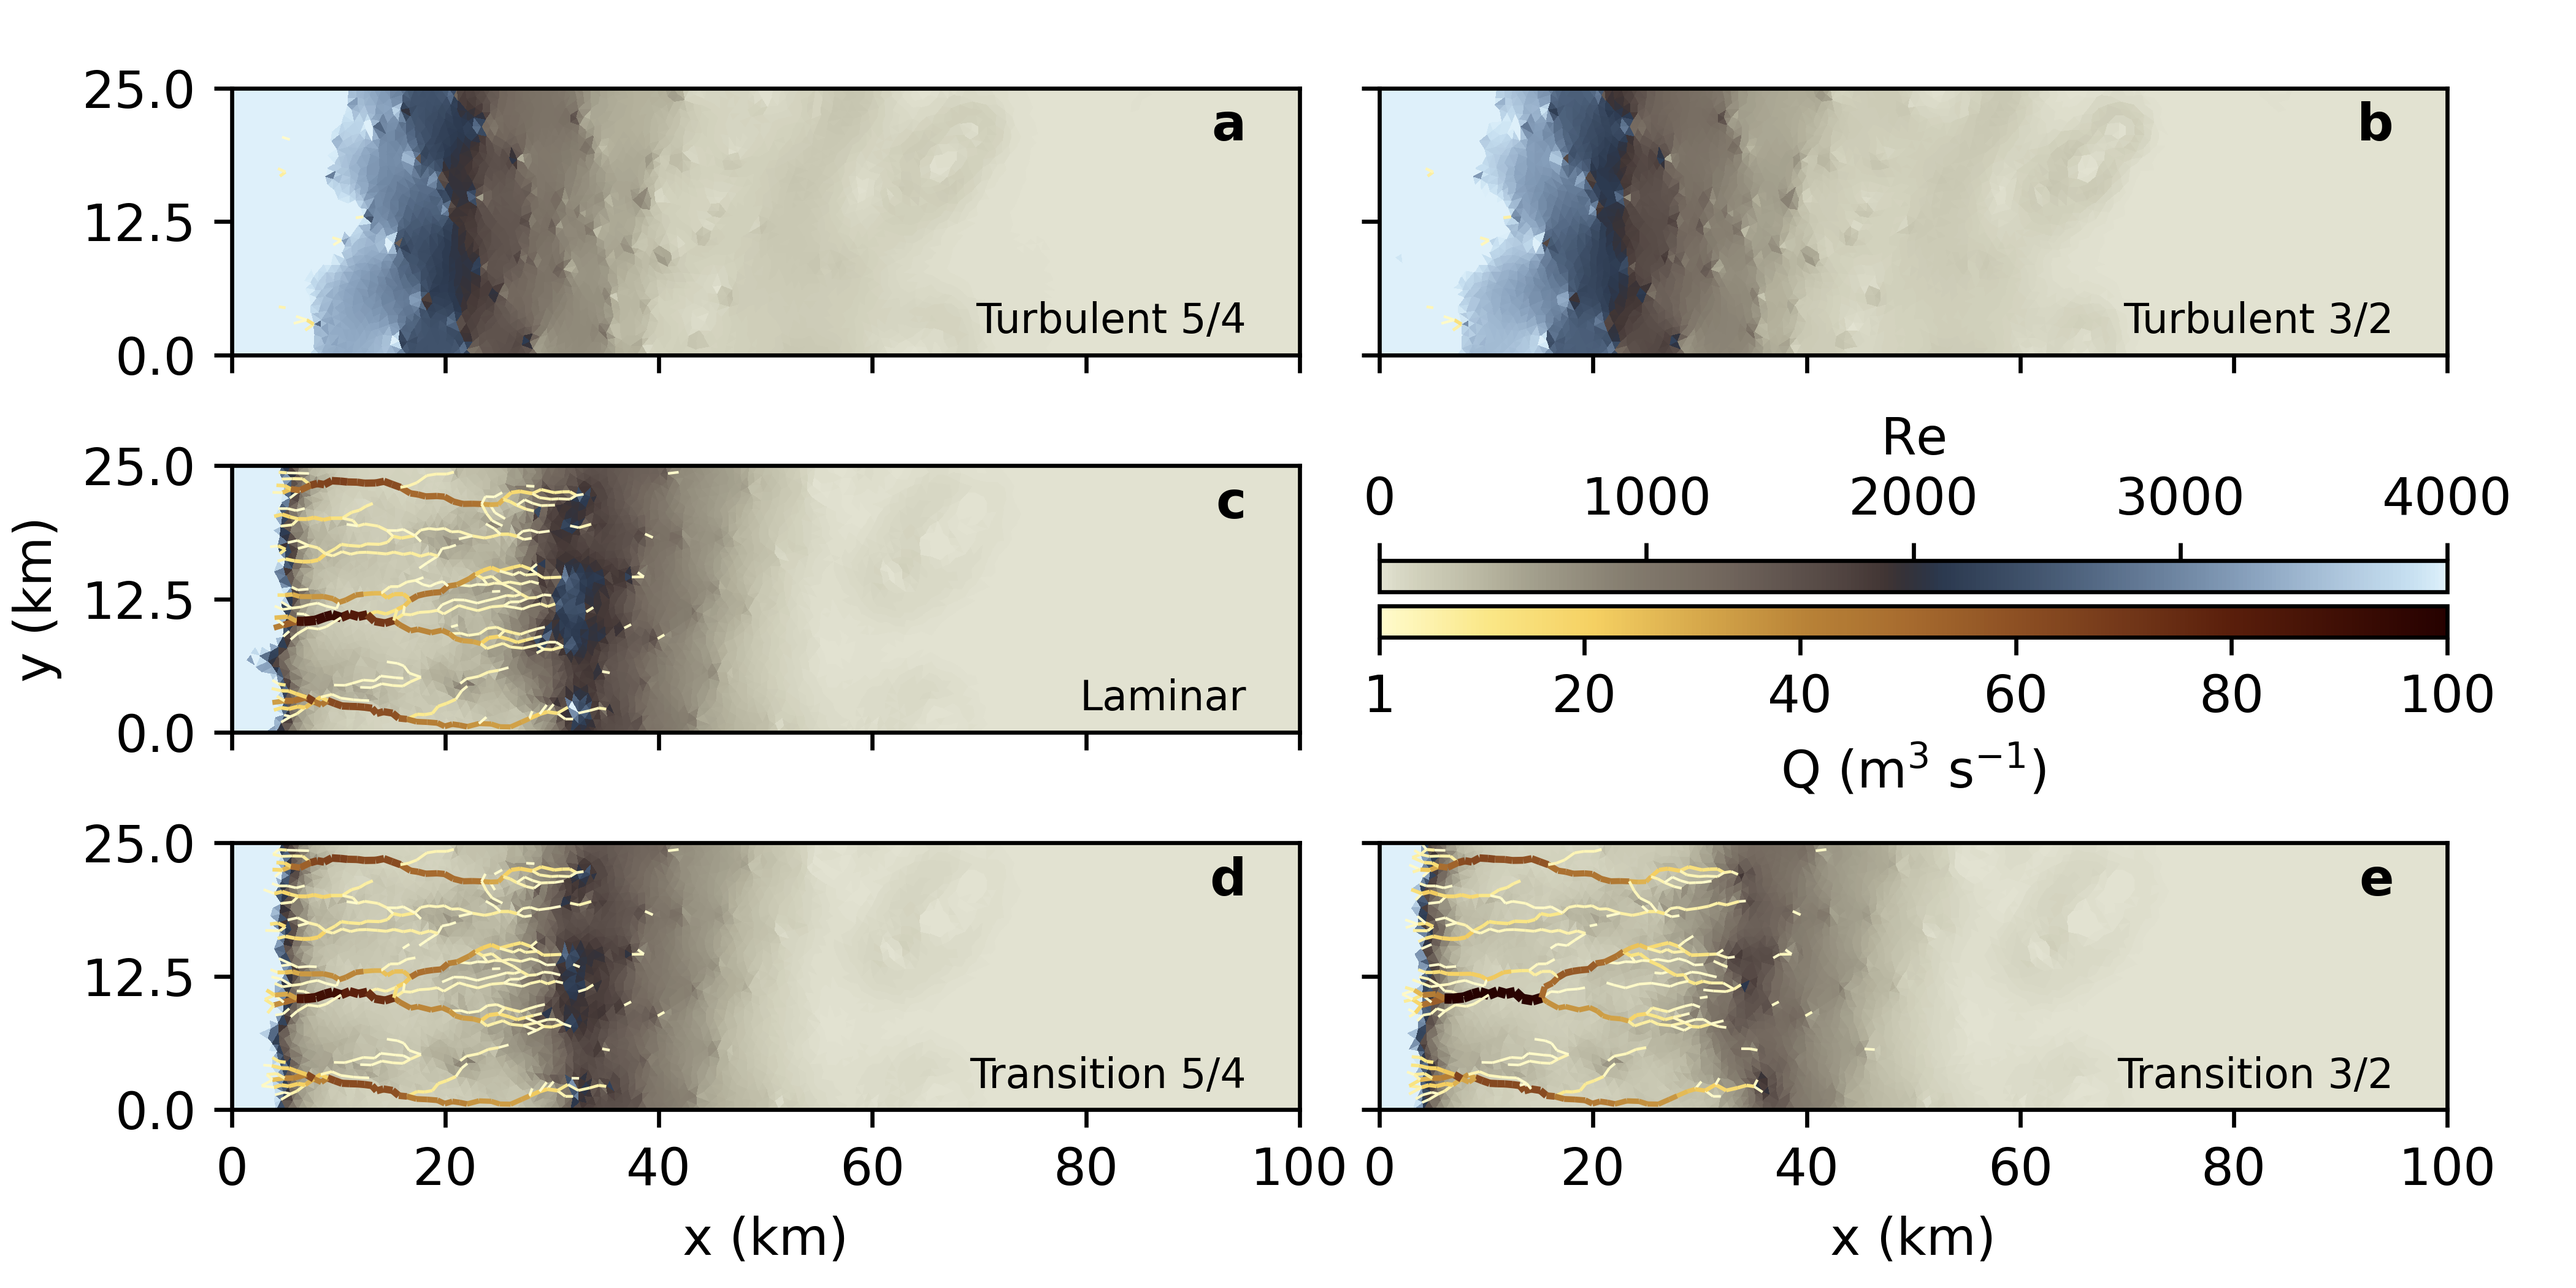
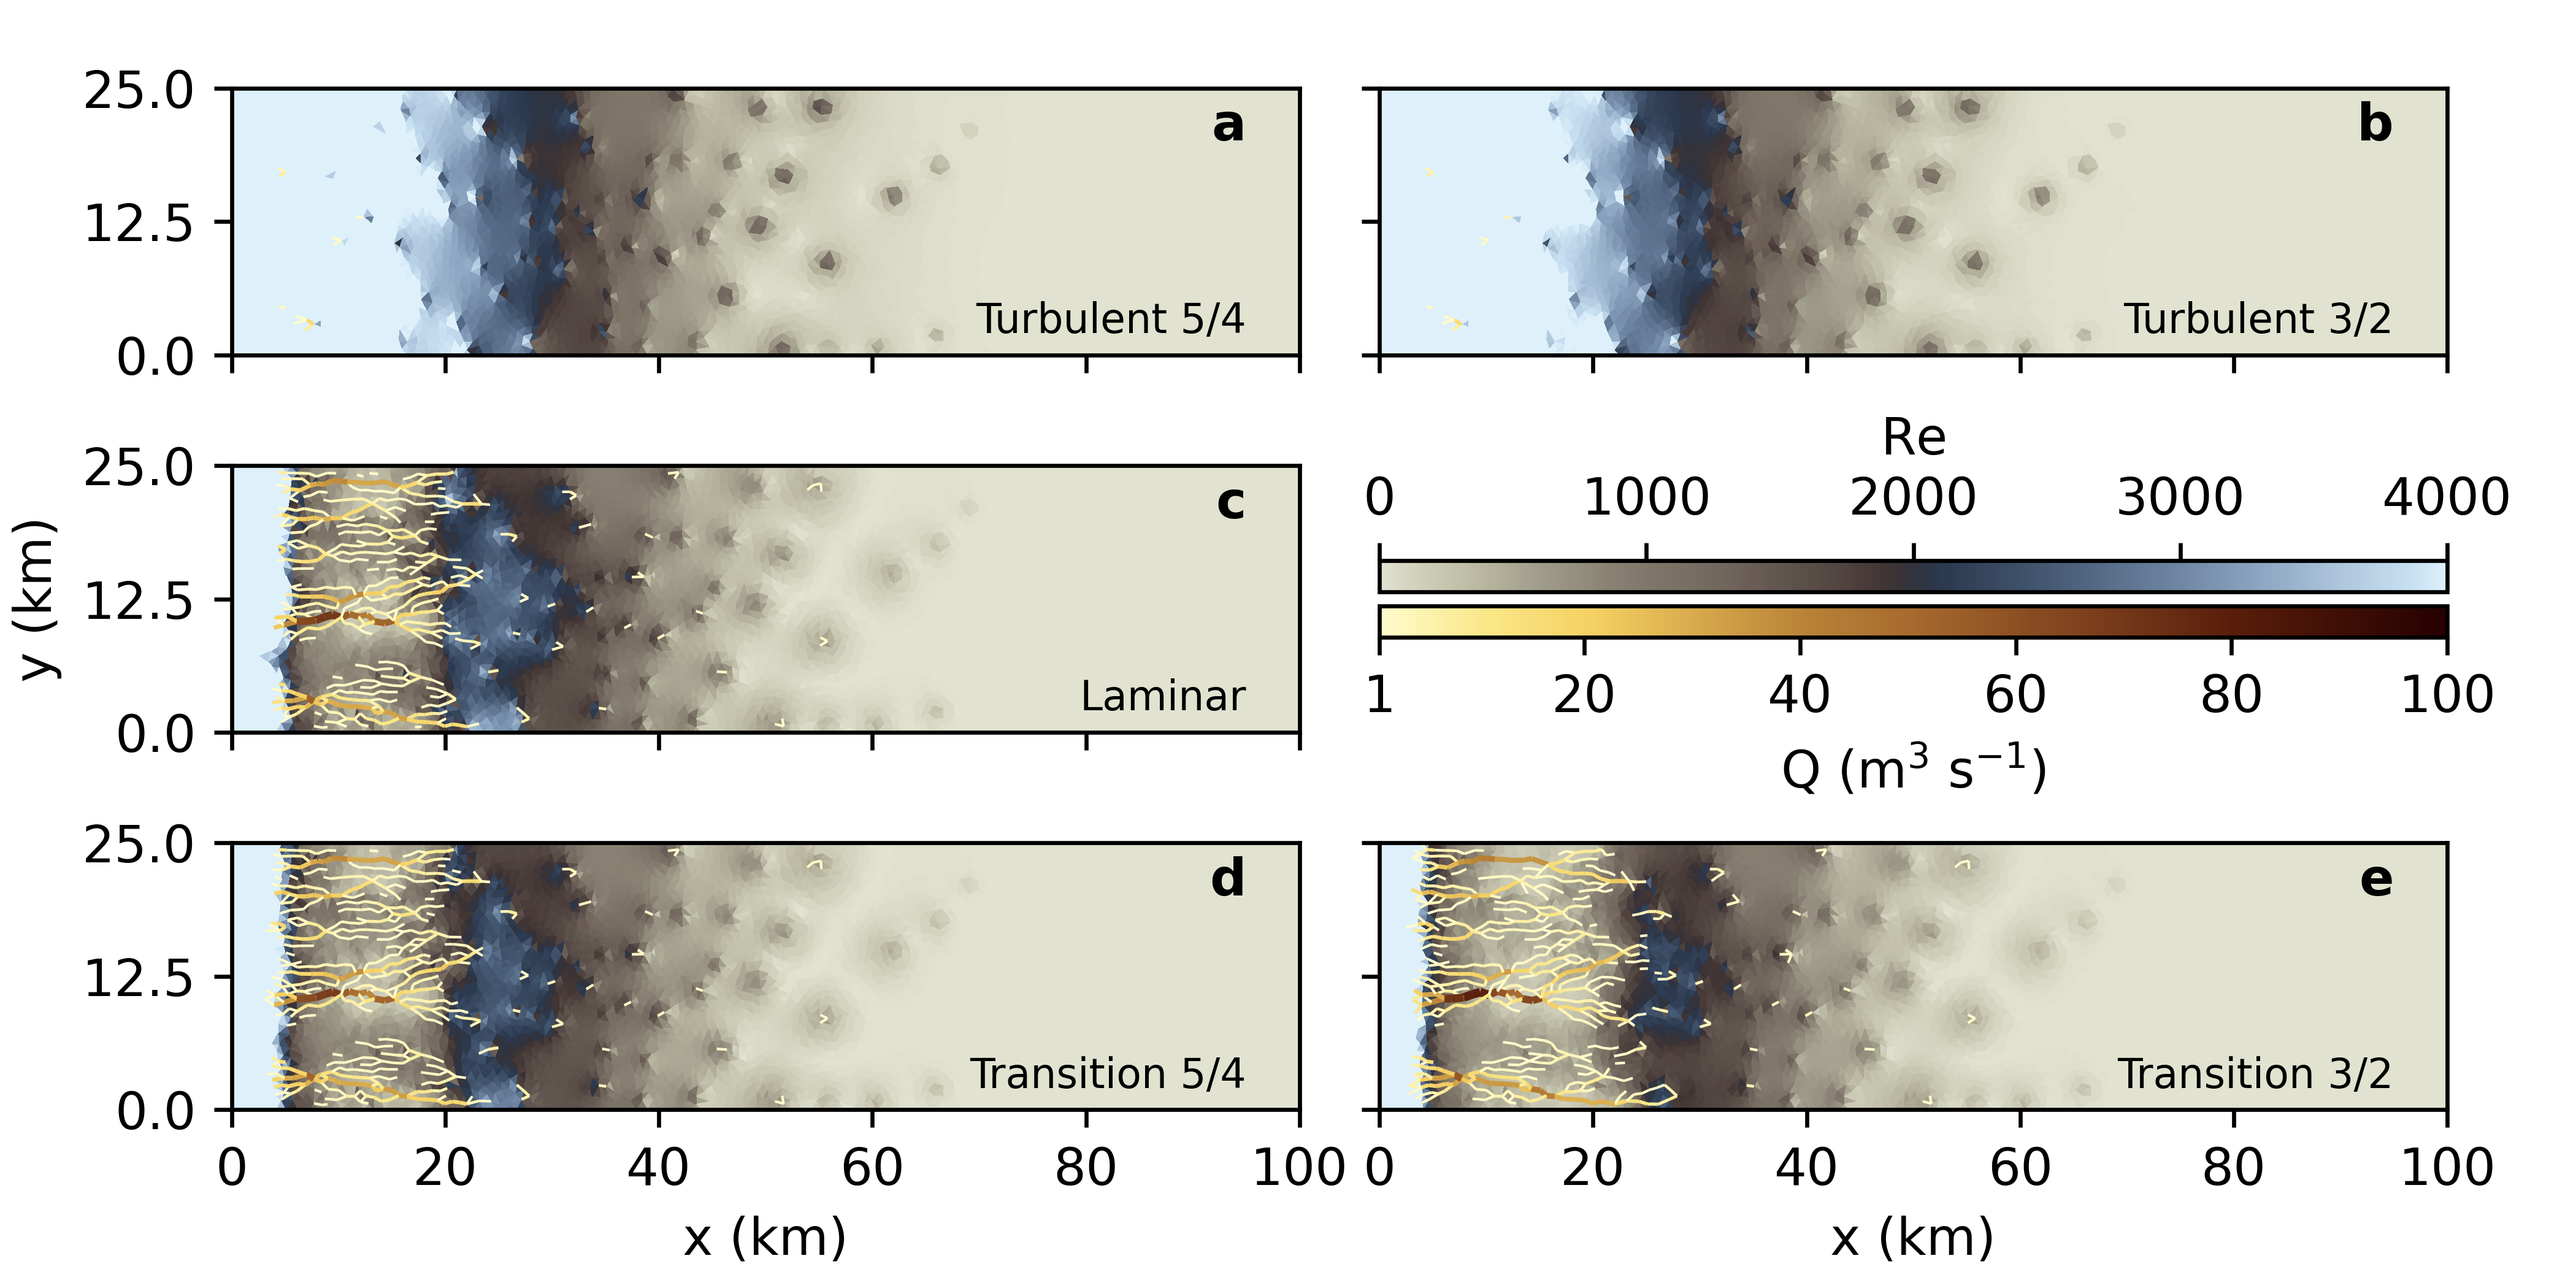
Fix tslice for sensitivity Re

diff --git a/analysis/make_Re.py b/analysis/make_Re.py
@@ -83,5 +83,7 @@ cases = [1, 2, 3, 4, 5]
 pattern = '../glads/S01_parameter_sensitivity/RUN/output_%03d_seasonal.nc'
 fnames = [pattern % caseid for caseid in cases]
 figname = 'S01_Re_parameter.png'
-fig_S01 = plot_Re(fnames, figname, Qmin=1, Re_ylim=(0, 4e3))
+fig_S01 = plot_Re(fnames, figname, Qmin=1, Re_ylim=(0, 4e3), tslice=365+174)
+
+plt.show()
 
